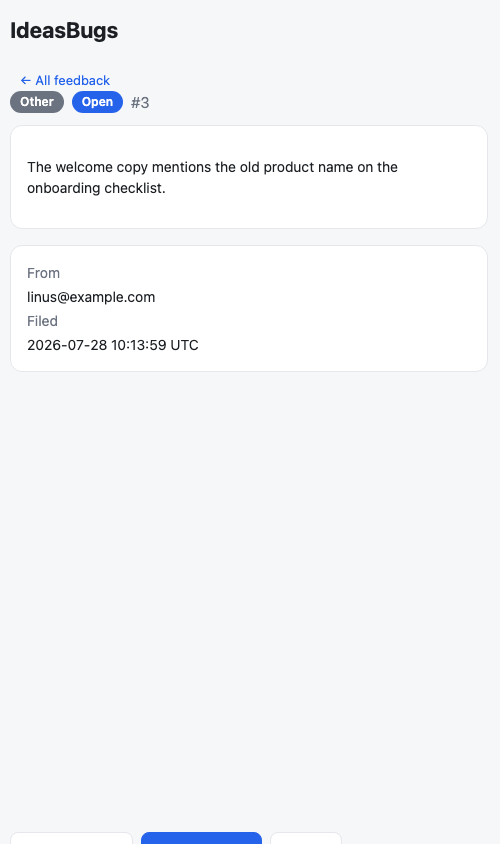
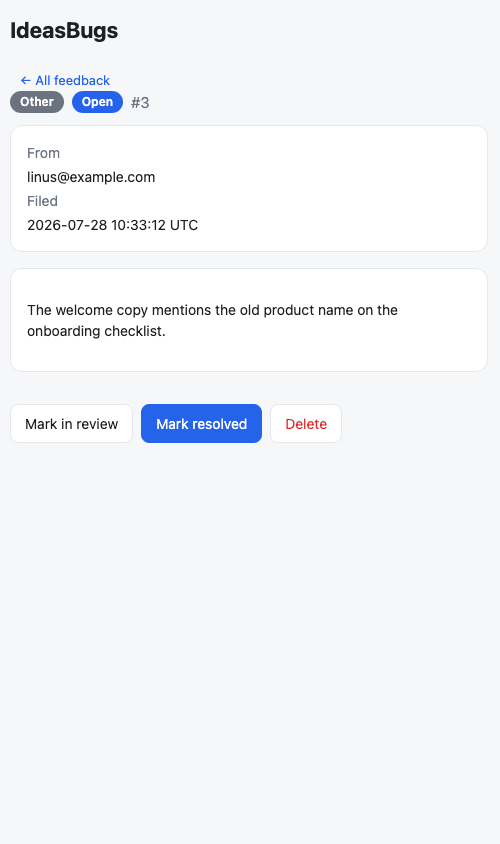
Refine admin detail ordering

diff --git a/test/integration/dashboard_test.rb b/test/integration/dashboard_test.rb
@@ -161,6 +161,8 @@ class DashboardTest < ActionDispatch::IntegrationTest
     assert_includes response.body, 'feedback-row active'
     assert_includes response.body, 'It broke'
     assert_includes response.body, 'user@example.com'
+    assert_operator response.body.rindex('user@example.com'), :<, response.body.rindex('It broke')
+    assert_operator response.body.rindex('It broke'), :<, response.body.rindex('Mark resolved')
   end
 
   test 'shows one feedback with its details' do
